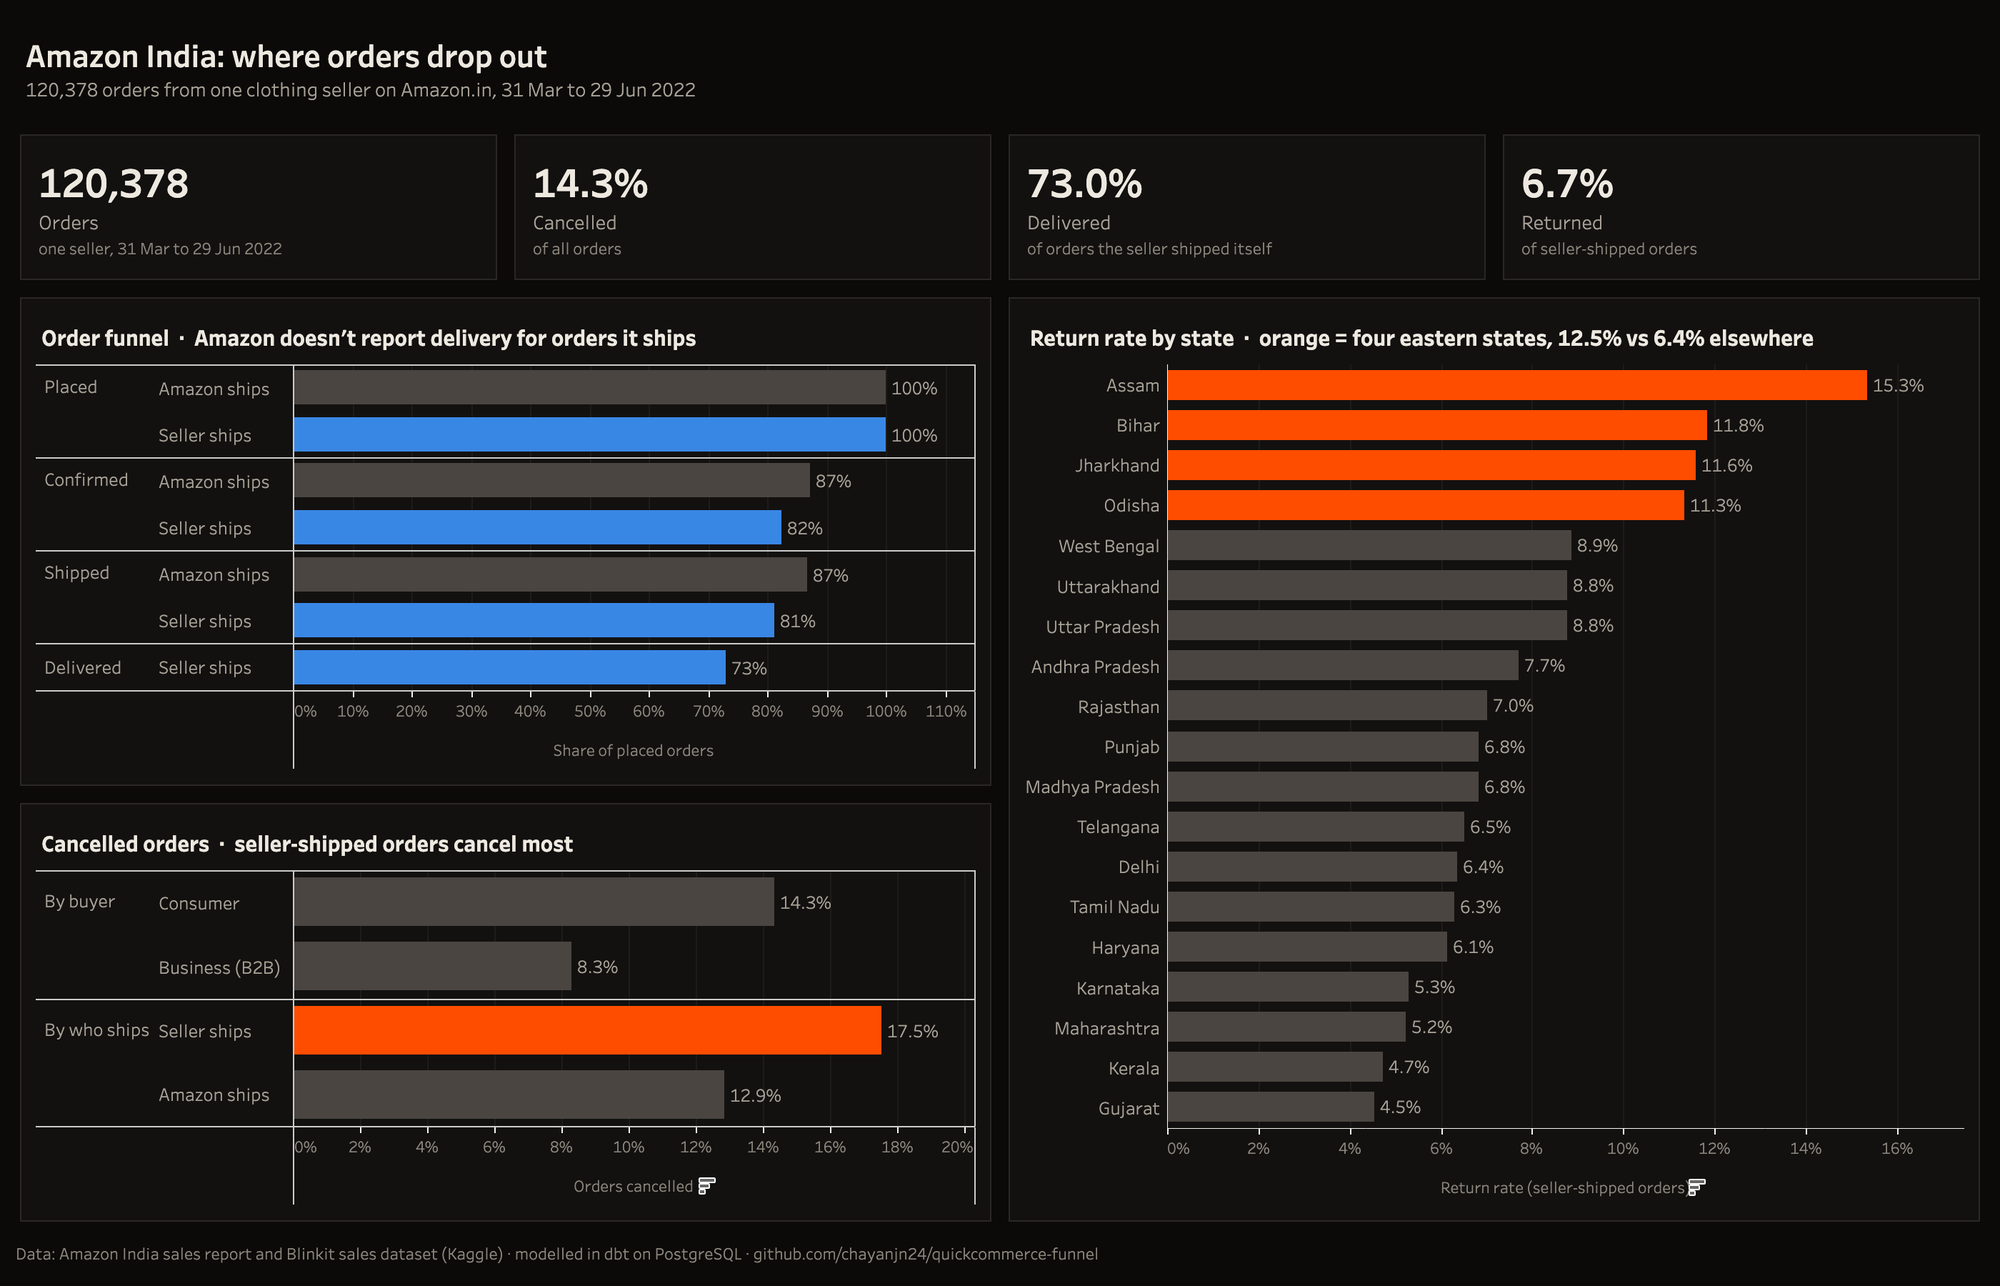
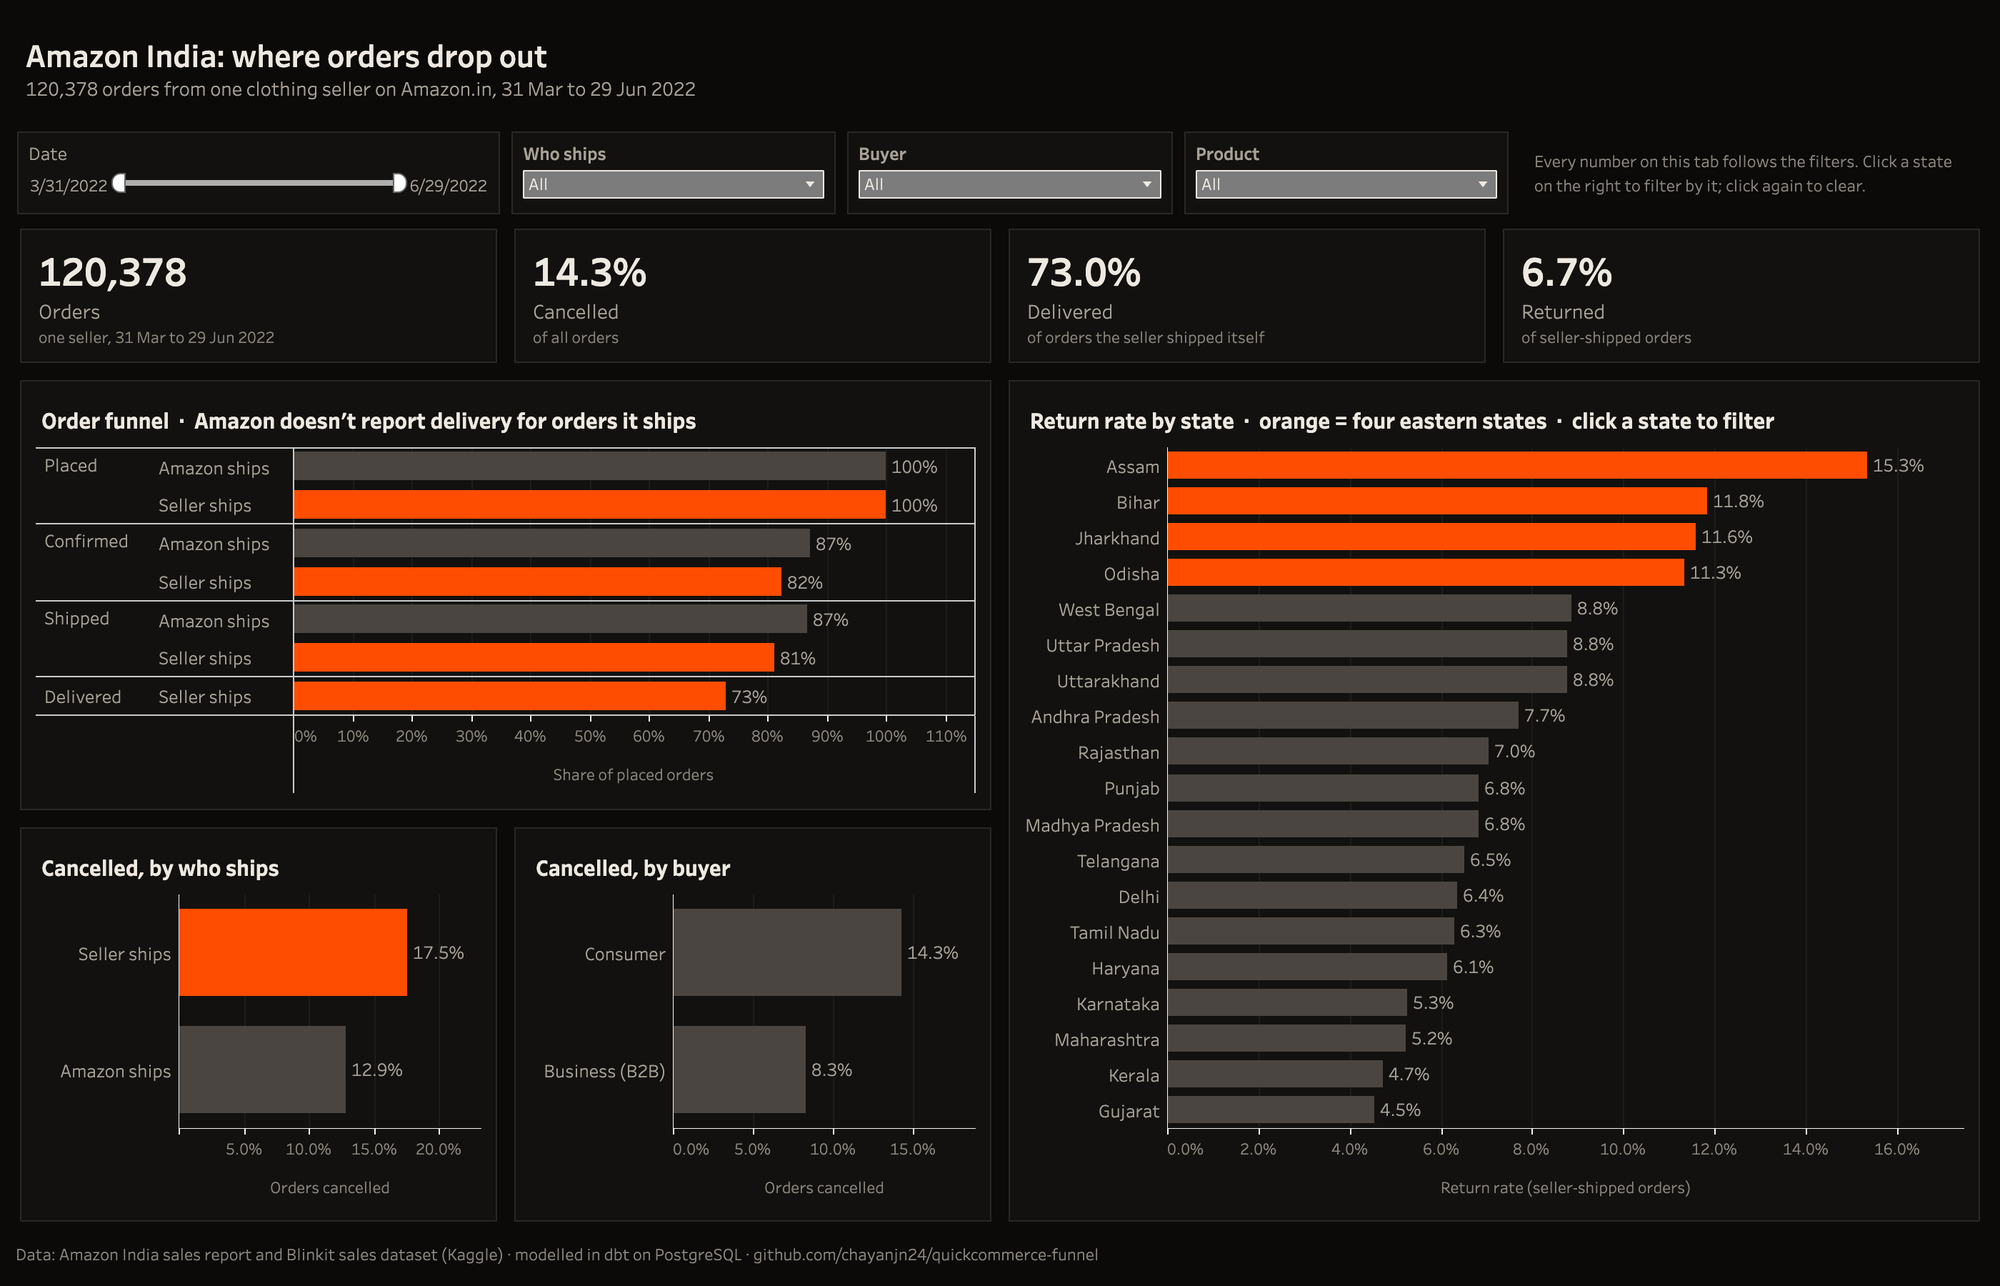
Refresh dashboard screenshots now the dashboards have filters

diff --git a/README.md b/README.md
@@ -47,7 +47,7 @@ The offer: customers who haven't ordered for 60+ days get ₹100 off their next 
 
 ## Dashboards
 
-**Tableau Public ([live](https://public.tableau.com/app/profile/chayan.gulgulia/viz/Quick-CommerceFunnel/AmazonIndia)):** three tabs, one for each part of the analysis: Amazon India, Blinkit customers and the win-back test. Every chart has hover details. It reads small extracts of the finished dbt tables.
+**Tableau Public ([live](https://public.tableau.com/app/profile/chayan.gulgulia/viz/Quick-CommerceFunnel/AmazonIndia)):** three tabs, one for each part of the analysis: Amazon India, Blinkit customers and the win-back test. Filters for dates, who ships, buyer, product, category, payment, RFM segment, campaign and audience, and the headline numbers follow them; click a state to filter the Amazon tab. The win-back tab has a discount slider that redoes the cost and break-even maths. Every chart has hover details. It reads small extracts of the finished dbt tables.
 
 ![Blinkit tab of the Tableau dashboard](images/tableau_blinkit.png)
 
